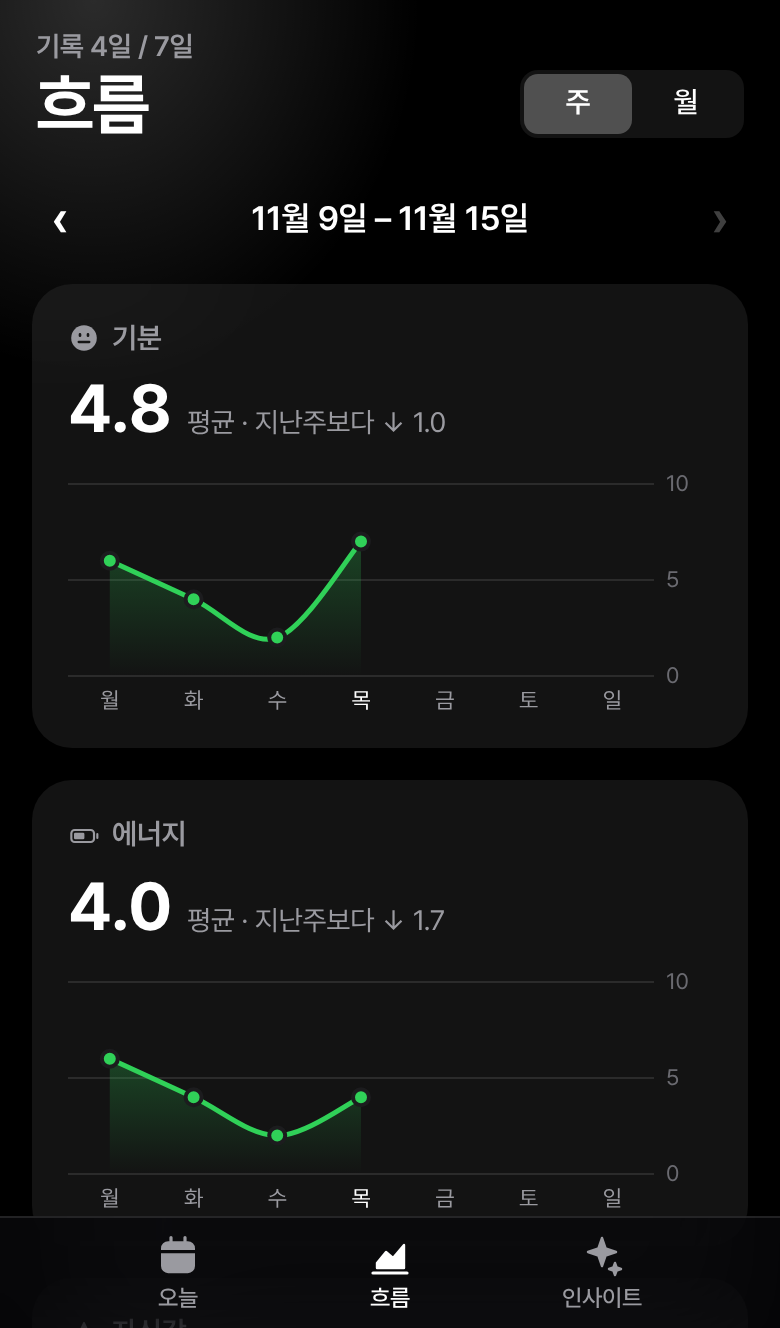
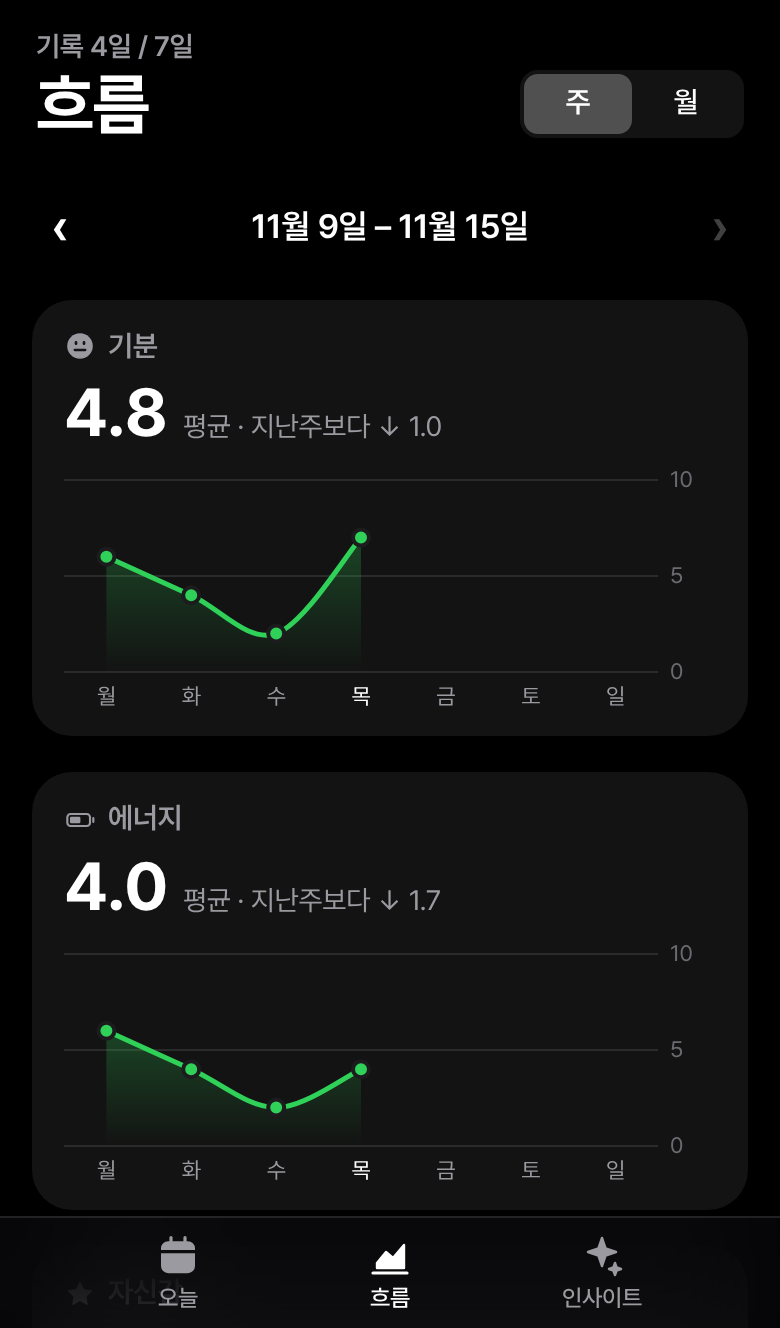
Tide: restore inner padding and row heights; add space only between cards and under the title and date row
Claude-Session: https://claude.ai/code/session_01Du4KAy7crrN67i73oW7iBF

diff --git a/mood/app.css b/mood/app.css
@@ -84,24 +84,24 @@ button { border: 0; background: none; padding: 0; cursor: pointer; touch-action:
 #app { max-width: 480px; margin: 0 auto; padding: calc(var(--safe-t) + 14px) 16px calc(var(--safe-b) + 84px); }
 
 /* 큰 제목 */
-.top { display: flex; align-items: flex-end; justify-content: space-between; margin: 0 2px 18px; }
+.top { display: flex; align-items: flex-end; justify-content: space-between; margin: 0 2px 22px; }
 .over { color: var(--muted); font-size: calc(12.5px * var(--fs, 1.12)); font-weight: 600; margin-bottom: 1px; }
 .top h1 { font-size: calc(30px * var(--fs, 1.12)); line-height: 1.12; margin: 0; font-weight: 700; letter-spacing: -0.025em; }
 .icon-btn { width: 36px; height: 36px; border-radius: 50%; display: grid; place-items: center; color: var(--text); margin-bottom: 2px; }
 
 .card, .tile, .pickbar, .icon-btn, .segc, .btn.gray { background: var(--card); box-shadow: var(--shadow); -webkit-backdrop-filter: var(--blur); backdrop-filter: var(--blur); }
-.card { border-radius: var(--radius); padding: 17px 18px; margin-bottom: 16px; }
+.card { border-radius: var(--radius); padding: 14px 16px; margin-bottom: 18px; }
 .hint { color: var(--muted); font-size: calc(13px * var(--fs, 1.12)); display: flex; gap: 10px; align-items: flex-start; }
 .hint b { color: var(--text); font-weight: 600; }
 .hint .x { color: var(--faint); font-size: calc(14px * var(--fs, 1.12)); width: 32px; height: 32px; flex: none; margin: -6px -8px 0 0; text-align: center; }
 
 /* 묶음 목록 */
-.sec { color: var(--muted); font-size: calc(12.5px * var(--fs, 1.12)); font-weight: 500; margin: 26px 18px 9px; }
-.secnote { color: var(--muted); font-size: calc(12px * var(--fs, 1.12)); margin: -6px 18px 0; line-height: 1.4; }
+.sec { color: var(--muted); font-size: calc(12.5px * var(--fs, 1.12)); font-weight: 500; margin: 28px 16px 8px; }
+.secnote { color: var(--muted); font-size: calc(12px * var(--fs, 1.12)); margin: -8px 16px 0; line-height: 1.4; }
 .list { padding: 0; overflow: hidden; }
-.li { position: relative; display: flex; align-items: center; justify-content: space-between; gap: 12px; width: 100%; min-height: 52px; padding: 10px 18px; font-size: calc(15px * var(--fs, 1.12)); }
-.li + .li::before { content: ""; position: absolute; top: 0; left: 18px; right: 0; height: 0.5px; background: var(--line); }
-.li.col { flex-direction: column; align-items: stretch; gap: 10px; padding: 14px 18px 15px; }
+.li { position: relative; display: flex; align-items: center; justify-content: space-between; gap: 12px; width: 100%; min-height: 46px; padding: 8px 16px; font-size: calc(15px * var(--fs, 1.12)); }
+.li + .li::before { content: ""; position: absolute; top: 0; left: 16px; right: 0; height: 0.5px; background: var(--line); }
+.li.col { flex-direction: column; align-items: stretch; gap: 8px; padding: 11px 16px 12px; }
 .lk { display: flex; align-items: center; gap: 9px; min-width: 0; }
 .lk .ic { color: var(--muted); }
 .lk small { color: var(--muted); font-size: calc(13px * var(--fs, 1.12)); margin-left: -2px; }
@@ -118,7 +118,7 @@ button { border: 0; background: none; padding: 0; cursor: pointer; touch-action:
 .sw[aria-pressed=true] i::after { transform: translateX(20px); background: var(--ink-inv); }
 
 /* 슬라이더 */
-.sl { flex-direction: column; align-items: stretch; gap: 0; padding: 15px 18px 13px; }
+.sl { flex-direction: column; align-items: stretch; gap: 0; padding: 12px 16px 10px; }
 .slh { display: flex; justify-content: space-between; align-items: center; }
 .slh b { font-family: var(--round); font-size: calc(22px * var(--fs, 1.12)); font-weight: 700; line-height: 1; font-variant-numeric: tabular-nums; }
 .lk > span:empty { display: none; }
@@ -145,7 +145,7 @@ textarea { display: block; font: inherit; font-size: calc(16px * var(--fs, 1.12)
 /* 약 */
 .med .chk { color: var(--ink); font-size: calc(16px * var(--fs, 1.12)); font-weight: 600; opacity: 0; }
 /* 약 한 줄: 먹은 시각들과 '먹었어요' 버튼 */
-.med-row { min-height: 58px; }
+.med-row { min-height: 54px; }
 .med-row.multi { flex-wrap: wrap; row-gap: 8px; }
 .med-row .lk { flex: 1 1 auto; }
 .mn { min-width: 0; overflow: hidden; text-overflow: ellipsis; white-space: nowrap; }
@@ -159,7 +159,7 @@ textarea { display: block; font: inherit; font-size: calc(16px * var(--fs, 1.12)
 .take.more { width: 34px; padding: 0; background: var(--card2); color: var(--text); font-size: 18px; font-weight: 400; text-align: center; }
 .med[aria-pressed=true] .chk { opacity: 1; }
 .li.add { justify-content: flex-start; font-weight: 500; }
-.med-new { flex-wrap: wrap; gap: 10px; padding: 14px 18px; }
+.med-new { flex-wrap: wrap; gap: 8px; padding: 12px 16px; }
 .med-new > input, .unit { flex: 1 1 40%; background: var(--card2); border-radius: 9px; padding: 0 12px; min-height: 42px; }
 .unit { display: flex; align-items: center; gap: 4px; }
 .unit input { min-height: 42px; }
@@ -167,7 +167,7 @@ textarea { display: block; font: inherit; font-size: calc(16px * var(--fs, 1.12)
 .med-new .btn { margin: 0; min-height: 42px; font-size: calc(14px * var(--fs, 1.12)); background: var(--card2); }
 
 /* 버튼 */
-.btn { display: block; width: 100%; min-height: 50px; border-radius: 16px; background: var(--ink); color: var(--ink-inv); font-size: calc(16px * var(--fs, 1.12)); font-weight: 600; text-align: center; margin-top: 16px; }
+.btn { display: block; width: 100%; min-height: 50px; border-radius: 16px; background: var(--ink); color: var(--ink-inv); font-size: calc(16px * var(--fs, 1.12)); font-weight: 600; text-align: center; margin-top: 18px; }
 .btn:active { opacity: .75; }
 .btn.gray { color: var(--text); }
 .btn.plain { background: transparent; color: var(--text); font-weight: 500; font-size: calc(15px * var(--fs, 1.12)); min-height: 44px; }
@@ -175,10 +175,10 @@ textarea { display: block; font: inherit; font-size: calc(16px * var(--fs, 1.12)
 .txt { min-width: 52px; min-height: 40px; font-size: calc(16px * var(--fs, 1.12)); color: var(--text); }
 .txt.strong { font-weight: 600; text-align: right; }
 .txt.dim { color: var(--muted); font-size: calc(14px * var(--fs, 1.12)); text-align: right; }
-.foot { color: var(--faint); font-size: calc(11.5px * var(--fs, 1.12)); text-align: center; padding: 14px 12px 0; line-height: 1.45; }
+.foot { color: var(--faint); font-size: calc(11.5px * var(--fs, 1.12)); text-align: center; padding: 10px 12px 0; line-height: 1.45; }
 
 /* 주간 날짜 바 · 달력 */
-.weekbar { display: flex; align-items: center; margin: 0 -6px 22px; }
+.weekbar { display: flex; align-items: center; margin: 0 -6px 26px; }
 .weekbar .days { flex: 1; display: grid; grid-template-columns: repeat(7, 1fr); }
 .nav { width: 26px; height: 44px; font-size: calc(20px * var(--fs, 1.12)); color: var(--muted); text-align: center; flex: none; }
 .nav:disabled { opacity: .25; }
@@ -195,10 +195,10 @@ textarea { display: block; font: inherit; font-size: calc(16px * var(--fs, 1.12)
 .cal .cday i, .calkey i.pdot { display: block; width: 4px; height: 4px; border-radius: 50%; background: var(--ink); }
 
 /* 오늘 요약 */
-.tiles { display: grid; grid-template-columns: 1fr 1fr; gap: 14px; margin-bottom: 16px; }
-.tile { border-radius: var(--radius); padding: 17px 18px 18px; min-width: 0; }
+.tiles { display: grid; grid-template-columns: 1fr 1fr; gap: 16px; margin-bottom: 18px; }
+.tile { border-radius: var(--radius); padding: 14px 16px 15px; min-width: 0; }
 .tile .tl { display: flex; justify-content: space-between; color: var(--muted); font-size: calc(13px * var(--fs, 1.12)); font-weight: 500; font-variant-numeric: tabular-nums; }
-.tile .word { font-size: calc(21px * min(var(--fs, 1.12), 1.25)); font-weight: 700; letter-spacing: -0.03em; line-height: 1.25; margin: 7px 0 14px; white-space: nowrap; overflow: hidden; text-overflow: ellipsis; }
+.tile .word { font-size: calc(21px * min(var(--fs, 1.12), 1.25)); font-weight: 700; letter-spacing: -0.03em; line-height: 1.25; margin: 5px 0 12px; white-space: nowrap; overflow: hidden; text-overflow: ellipsis; }
 .tile .word small { font-size: .68em; font-weight: 600; color: var(--muted); margin-left: 1px; }
 .tile .ts { color: var(--muted); font-size: calc(11.5px * var(--fs, 1.12)); margin-top: 8px; white-space: nowrap; overflow: hidden; text-overflow: ellipsis; }
 .lvl { position: relative; height: 4px; border-radius: 999px; background: var(--fill); margin: 0 4px; }
@@ -213,7 +213,7 @@ textarea { display: block; font: inherit; font-size: calc(16px * var(--fs, 1.12)
 /* 시트 */
 .sheet { position: fixed; inset: 0; z-index: 10; background: var(--glow), var(--bg); overflow-y: auto; -webkit-overflow-scrolling: touch; overscroll-behavior: contain; }
 .sheet-in { max-width: 480px; margin: 0 auto; padding: 0 16px calc(var(--safe-b) + 96px); }
-.sheet-top { position: sticky; top: 0; z-index: 2; display: flex; align-items: center; justify-content: space-between; margin: 0 -16px 16px; padding: calc(var(--safe-t) + 6px) 16px 6px; background: var(--bar); -webkit-backdrop-filter: var(--blur); backdrop-filter: var(--blur); }
+.sheet-top { position: sticky; top: 0; z-index: 2; display: flex; align-items: center; justify-content: space-between; margin: 0 -16px 18px; padding: calc(var(--safe-t) + 6px) 16px 6px; background: var(--bar); -webkit-backdrop-filter: var(--blur); backdrop-filter: var(--blur); }
 .st { text-align: center; line-height: 1.2; }
 .st b { display: block; font-size: calc(16px * var(--fs, 1.12)); font-weight: 600; }
 .st span { color: var(--muted); font-size: calc(11.5px * var(--fs, 1.12)); }
@@ -227,15 +227,15 @@ ol.steps li { margin: 3px 0; }
 .segc { display: flex; border-radius: 9px; padding: 2px; margin-bottom: 3px; }
 .segc button { width: 54px; min-height: 30px; border-radius: 7px; font-size: calc(13px * var(--fs, 1.12)); font-weight: 500; color: var(--text); text-align: center; }
 .segc button[aria-pressed=true] { background: var(--sel); font-weight: 600; }
-.pnav { display: flex; align-items: center; justify-content: space-between; margin: 0 -8px 12px; font-size: calc(15px * var(--fs, 1.12)); font-weight: 600; }
+.pnav { display: flex; align-items: center; justify-content: space-between; margin: 0 -8px 16px; font-size: calc(15px * var(--fs, 1.12)); font-weight: 600; }
 .pnav button { width: 44px; height: 40px; font-size: calc(22px * var(--fs, 1.12)); color: var(--text); text-align: center; }
 .pnav button:disabled { opacity: .25; }
-.pickbar { display: flex; align-items: center; justify-content: space-between; border-radius: var(--radius); padding: 8px 8px 8px 18px; margin-bottom: 16px; font-size: calc(14px * var(--fs, 1.12)); font-weight: 600; }
+.pickbar { display: flex; align-items: center; justify-content: space-between; border-radius: var(--radius); padding: 8px 8px 8px 16px; margin-bottom: 18px; font-size: calc(14px * var(--fs, 1.12)); font-weight: 600; }
 .mini { flex: none; background: var(--card2); border-radius: 999px; padding: 8px 14px; font-size: calc(13px * var(--fs, 1.12)); font-weight: 600; }
-.mcard { padding: 18px 18px 16px; }
+.mcard { padding: 14px 16px 12px; }
 .mt { display: flex; align-items: center; gap: 6px; color: var(--muted); font-size: calc(13px * var(--fs, 1.12)); font-weight: 600; }
 .mt .ic { width: 16px; height: 16px; }
-.mv { display: flex; align-items: baseline; gap: 8px; margin: 5px 0 10px; }
+.mv { display: flex; align-items: baseline; gap: 8px; margin: 3px 0 6px; }
 .mv b { font-family: var(--round); font-size: calc(30px * var(--fs, 1.12)); font-weight: 700; letter-spacing: -0.02em; line-height: 1.2; font-variant-numeric: tabular-nums; }
 .mv b small { font-size: calc(15px * var(--fs, 1.12)); font-weight: 600; color: var(--muted); }
 .mv span { color: var(--muted); font-size: calc(12.5px * var(--fs, 1.12)); }
@@ -271,7 +271,7 @@ ol.steps li { margin: 3px 0; }
 /* 초기 신호 · 인사이트 */
 .signal { display: flex; align-items: flex-start; gap: 11px; font-size: calc(14.5px * var(--fs, 1.12)); line-height: 1.4; }
 .signal i { flex: none; width: 8px; height: 8px; border-radius: 50%; background: var(--ink); margin-top: .42em; }
-.li.say { display: block; padding: 15px 18px; line-height: 1.5; }
+.li.say { display: block; padding: 13px 16px; line-height: 1.45; }
 .li.say.mut { color: var(--muted); }
 .li.say.note { white-space: pre-wrap; overflow-wrap: anywhere; }
 /* 약 고르기 */
@@ -281,7 +281,7 @@ ol.steps li { margin: 3px 0; }
 .sug small { color: var(--muted); margin-left: 5px; font-size: .85em; }
 
 /* 카페인 음료 개수 */
-.steps { display: grid; grid-template-columns: 1fr; gap: 10px; margin-top: 4px; }
+.steps { display: grid; grid-template-columns: 1fr; gap: 8px; margin-top: 4px; }
 .step { display: flex; align-items: center; background: var(--card2); border-radius: 12px; padding: 4px 4px 4px 12px; }
 .step span { flex: 1; font-size: calc(14px * var(--fs, 1.12)); }
 .step button { width: 36px; height: 36px; border-radius: 9px; font-size: 20px; text-align: center; color: var(--text); }

diff --git a/mood/js/views/trend.js b/mood/js/views/trend.js
@@ -54,9 +54,9 @@ export function viewTrend() {
   const pick = trend.pick, pickDate = pick == null ? null : addDays(r.start, pick), pickE = pickDate ? db.entries[pickDate] : null;
   const pickLabel = pickDate ? longDate(pickDate) : '';
 
-  // 크기: 화면 여백(16×2)과 카드 안쪽 여백(18×2)을 빼고, 오른쪽에 눈금 숫자 자리를 남긴 뒤 날짜 수로 나눈다.
+  // 크기: 화면 여백(16×2)과 카드 안쪽 여백(16×2)을 빼고, 오른쪽에 눈금 숫자 자리를 남긴 뒤 날짜 수로 나눈다.
   // app.css의 #app, .mcard 좌우 여백을 바꾸면 여기 숫자도 같이 바꾼다.
-  const FS = fontScale(), AX = Math.round(26 * FS), W = Math.max(160, Math.min(app.clientWidth, 480) - 32 - 36 - AX), col = W / r.n;
+  const FS = fontScale(), AX = Math.round(26 * FS), W = Math.max(160, Math.min(app.clientWidth, 480) - 32 - 32 - AX), col = W / r.n;
   const cx = (i) => col * (i + 0.5);
   const TOP = 8, BOT = 104, H = 124;
   const xLabelsAt = (y) => days.map((_, i) => {

diff --git a/mood/sw.js b/mood/sw.js
@@ -1,7 +1,7 @@
 // 오프라인에서도 열리도록 앱 파일을 저장해 둔다.
 // 인터넷이 될 때는 항상 최신 파일을 먼저 받아오고, 안 될 때만 저장본을 쓴다.
 // 앱 파일을 바꿔서 올릴 때마다 CACHE 숫자를 하나 올린다. js/ 에 파일을 더하면 JS 목록에도 더한다.
-const CACHE = 'tide-v34';
+const CACHE = 'tide-v35';
 const JS = ['main', 'config', 'i18n', 'constants', 'store', 'dates', 'theme', 'icons', 'dom', 'state', 'meds', 'analysis', 'files', 'render', 'swipe',
   'views/today', 'views/trend', 'views/insight', 'views/record', 'views/settings'];
 const FILES = ['./', 'index.html', 'app.css', 'manifest.webmanifest',
